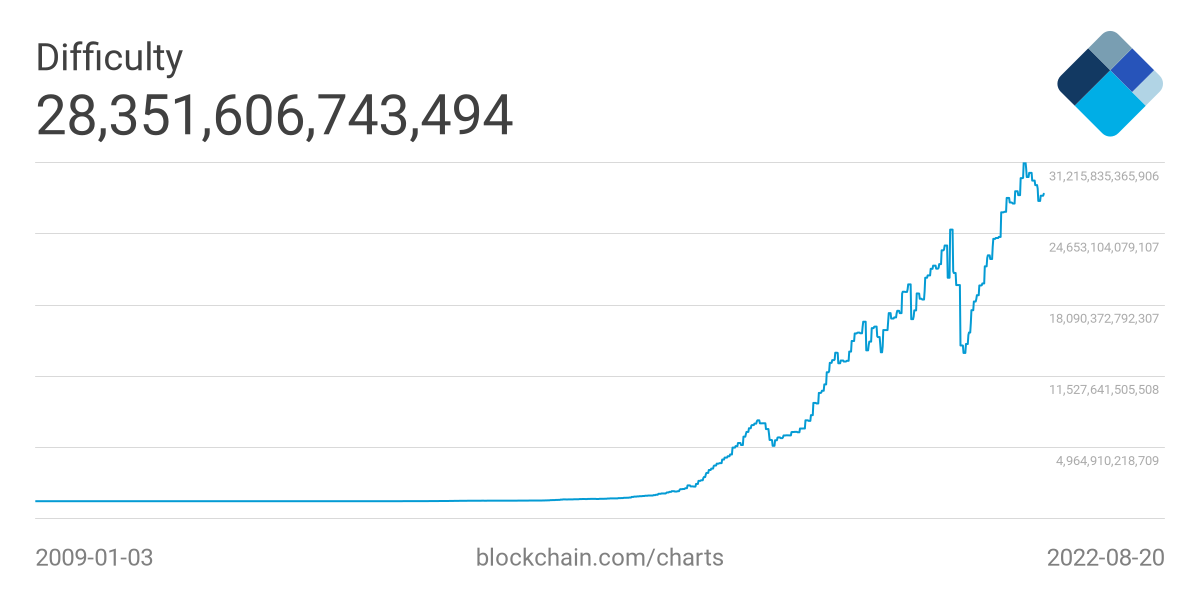
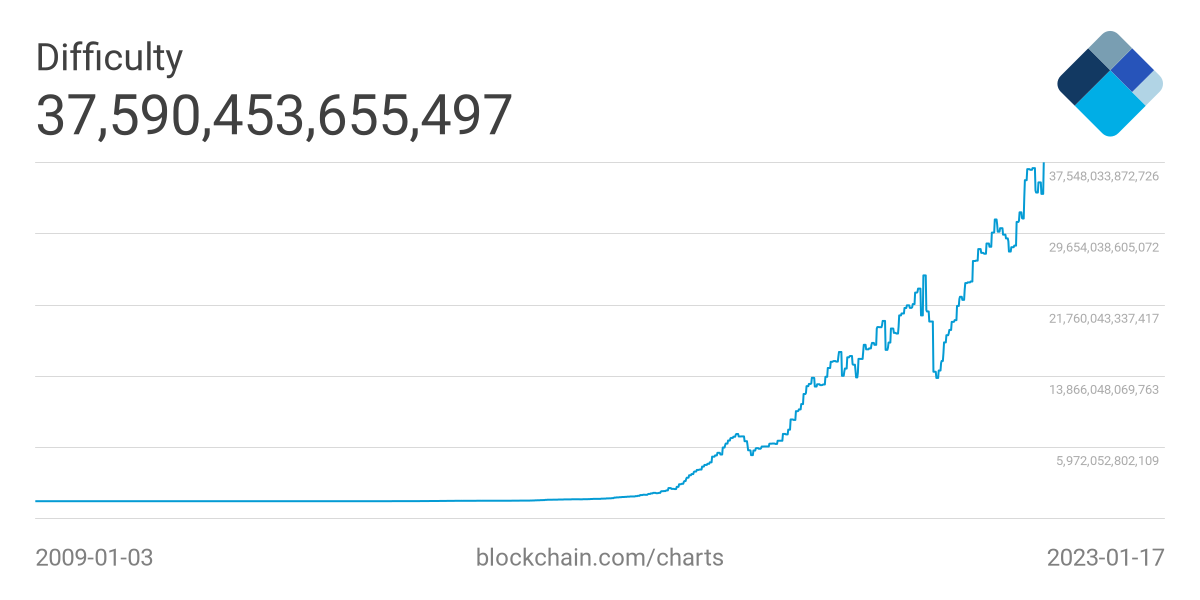
Updated the overview.html slide set

diff --git a/slides/overview.html b/slides/overview.html
@@ -175,8 +175,8 @@ According to Jan Lansky ([source](http://si-journal.org/index.php/JSI/article/vi
 
 
 ## Cryptocurrencies
-- There are 9,973 existing cryptocurrencies (that have value) <!-- change each semester -->
-  - As per [investing.com](https://www.investing.com/crypto/currencies) (as of August 23, 2022)
+- There are 8,806 existing cryptocurrencies (that have value) <!-- change each semester -->
+  - As per [investing.com](https://www.investing.com/crypto/currencies) (as of Jan 17, 2023)
 - One estimate is that 100 new ones are created *each day*
   - Most don't make investing.com's list
 - Some are [Ponzi schemes](https://en.wikipedia.org/wiki/Ponzi_scheme), some are [pyramid schemes](https://en.wikipedia.org/wiki/Ponzi_scheme), and some are worthwhile
@@ -205,7 +205,7 @@ According to Jan Lansky ([source](http://si-journal.org/index.php/JSI/article/vi
 <!-- .slide: class="right-float-img-nb-300" -->
 ## A note about numbers...
 [![](../slides/images/overview/bitcoin-coin.webp)](https://commons.wikimedia.org/wiki/File:One_bitcoin_sitting_atop_bundles_of_US_$100_notes.png)
-- The data in this slide set was all updated for the current semester (on August 23, 2022) <!-- change each semester -->
+- The data in this slide set was all updated for the current semester (on Jan 17, 2023) <!-- change each semester -->
 - Bitcoin is highly volatile (the value changes so fast) that it is likely to be quite different in a day or two
   - Indeed, the value of a Bitcoin changed *during* the updating of the numbers!
     - So you will see (slightly) different values for the price, for example
@@ -291,8 +291,8 @@ From [blockchain.com](https://blockchain.com); BTC peaked at $68,789 in November
 - The first block was the "genesis block"
 - Each successive block includes the SHA-256 hash of the previous block
   - Thus, you can't make a change to a previous block without changing all successive blocks
-- The current blockchain (as of August 23, 2022) is  750,757 blocks (aka 'height'; [source](https://bitinfocharts.com/))
-  - About 423 Gb in size ([source](https://www.blockchain.com/charts/blocks-size))
+- The current blockchain (as of August 23, 2022) is  772,463 blocks (aka 'height'; [source](https://bitinfocharts.com/))
+  - About 438 Gb in size ([source](https://www.blockchain.com/charts/blocks-size))
 <!-- change each semester -->
 
 
@@ -363,18 +363,18 @@ From [blockchain.com](https://blockchain.com); BTC peaked at $68,789 in November
 
 ## Difficulty
 - First target ($ft$): 00000000ffff00000000000000 00000000000000000000000000000000000000
-- The current target ($ct$) is 00000000000000000009fd7e00000000 00000000000000000000000000000000
-  - As of August 23, 2022 and can be found [here](http://learnmeabitcoin.com/glossary/target)
+- The current target ($ct$) is 00000000000000000008417e00000000 00000000000000000000000000000000
+  - As of Jan 17, 2023 and can be found [here](http://learnmeabitcoin.com/glossary/target)
   <!-- change each semester -->
-  - The new target is harder than the old: specifically $ft/ct$ = 28,174,668,481,289 times harder (that's 28.17 *trillion*)
+  - The new target is harder than the old: specifically $ft/ct$ = 34,093,570,325,204 times harder (that's 34.1 *trillion*)
 - This number is the bitcoin *difficulty*, and the latest value can be found [here](https://www.coinwarz.com/mining/bitcoin/difficulty-chart)
 
 
 
 ## Current hash difficulty
 - For the first target, a random nonce had a 1 in 4.3 billion chance of success
-- The current target is 28.17 trillion times harder
-  - A random nonce now has a 1 in $1.2 \times 10^{23}$ chance of success
+- The current target is 34.1 trillion times harder
+  - A random nonce now has a 1 in $1.46 \times 10^{23}$ chance of success
     <!-- change each semester --><!-- that value is n = 1/(d*s^32) -->
 
 
@@ -385,8 +385,8 @@ From [blockchain.com](https://blockchain.com); BTC peaked at $68,789 in November
 - A typical CPU can do maybe 10 Mhash/sec (million hashes per second)
   - A very fast CPU today could do about 25 Mhash/sec
   - A [$1,500 video card](https://www.amazon.com/gp/product/B07GHXQTGZ/) today could do about 800 Mhash/sec (estimate based on [this](https://en.bitcoin.it/wiki/Non-specialized_hardware_comparison#Nvidia) and [this](https://gpu.userbenchmark.com/Compare/Nvidia-RTX-2080-vs-Nvidia-GeForce-GTX-590-SLI-Disabled/4026vsm8041))
-- Consider a 1 in $1.2 \times 10^{23}$ chance of success
-- To generate $1.2 \times 10^{23}$ hashes at 800 million (8 Mhash) per second on a fast graphics card, this will take 4.8 *million years*
+- Consider a 1 in $1.46 \times 10^{23}$ chance of success
+- To generate $1.2 \times 10^{23}$ hashes at 800 million (8 Mhash) per second on a fast graphics card, this will take 6.8 *million years*
   <!-- change each semester -->
 
 
@@ -448,11 +448,11 @@ From [blockchain.com](https://blockchain.com); BTC peaked at $68,789 in November
 
 
 ## Reward per block
-- The current reward (as of August 23, 2022) is 6.25 BTC
+- The current reward (as of Jan 17, 2023) is 6.25 BTC
   <!-- change each semester -->
   - Plus transaction fees of around 0.1 BTC or so
   - The estimated date when it drops to 3.125 BTC is May 2024 ([source](https://www.bitcoinblockhalf.com/))
-- At a price of about $22k per block ([source](https://www.coindesk.com/price/bitcoin)), that's currently about $138k for a properly signed block!
+- At a price of about $21k per block ([source](https://www.coindesk.com/price/bitcoin)), 6.35 BTC is  about $133k for a properly signed block   <!-- change each semester -->
   - But if it costs over a billion dollars in electricity, perhaps it's not all that worth it
   - Unless you use somebody else's electricity...
 
@@ -487,11 +487,10 @@ From [blockchain.com](https://www.blockchain.com/charts/hash-rate), and for the 
 ![](https://m.media-amazon.com/images/I/61WsmRwaOaL._AC_SL1000_.jpg)
 - A whole industry has sprung up: you can find the hardware online (such as [here](https://www.bitcoinmining.com/bitcoin-mining-hardware/))
 - These devices are much faster and use much less electricity
-- Consider the [DragonX AntMiner S9](https://www.amazon.com//dp/B07CGFLJNQ/), which costs $300
-  <!-- change each semester -->
-  - It used to cost 3 times that!
+- Consider the [DragonX AntMiner S9](https://www.amazon.com//dp/B07CGFLJNQ/), which used to cost `$`300 (and over `$`1k before that)
+  - Amazon doesn't sell it anymore
   - It can compute 14 Thash/sec (tera), or $14*10^{12}$ hash/sec
-  - I don't believe their numbers that they post at that link, though
+  - I don't believe their numbers that they posted at that link, though
 
 
 
@@ -507,23 +506,23 @@ From [blockchain.com](https://www.blockchain.com/charts/hash-rate), and for the 
 ## [DragonX AntMinder S9](https://www.amazon.com/dp/B07WV6TPN7) analysis
 <!-- change each semester -->
 - We know that:
-  - The current hash rate is 205.8 EH/s
-  - Blocks take about 10 minutes to process (actually about 9m 21s right now ([source](https://bitinfocharts.com/)))
+  - The current hash rate is 267 EH/s
+  - Blocks take about 10 minutes to process (actually about 9m 25s right now ([source](https://bitinfocharts.com/)))
   - The [DragonX AntMinder S9](https://www.amazon.com/dp/B07WV6TPN7) claims to hash 14 TH/s
-- 205.8 exa / 14 tera = $205.8 \cdot 10^{18} / 14 \cdot 10^{12} = 14.7 \cdot 10^{6}$ or 14.7 million
-- Thus, you would expect to get one 14.7-millionth of a block's reward in a pooled setup
-- At $138k per block, that's about 1 *cent* per block
+- 267 exa / 14 tera = $267 \cdot 10^{18} / 14 \cdot 10^{12} = 19 \cdot 10^{6}$ or 19 million
+- Thus, you would expect to get one 19-millionth of a block's reward in a pooled setup
+- At $133k per block, that's about 1 *cent* per block
 - (And we aren't counting electricity here)
 
 
 
 ## [DragonX AntMinder S9](https://www.amazon.com/dp/B07WV6TPN7) analysis
 <!-- change each semester -->
-- At $138k per block, that's about 1 *cent* per block
-  - Which is $1.35 per day
+- At $133k per block, that's about 1 *cent* per block
+  - Which is $1.05 per day
     - This assumes 10 minute blocks; it's a bit more with 9m21s blocks
-  - You will make back your initial investment of $300 (plus tax) 222 days
-    - That's 7.4 months
+  - You will make back your initial investment of $300 (plus tax) 286 days
+    - That's 9.4 months
 - This assumes that the numbers don't change!
   - And that you aren't paying for electricity
   - And we know the reward per block will go down in May of 2024...
@@ -533,13 +532,13 @@ From [blockchain.com](https://www.blockchain.com/charts/hash-rate), and for the 
 
 ## [DragonX AntMinder S9](https://www.amazon.com/dp/B07WV6TPN7) analysis
 <!-- change each semester -->
-- You will make $1.35 in BTC per day
+- You will make $1.05 in BTC per day
 - But... electricity is not free
 - Stated power usage: 1,373 W or 1.373 kW
   - Over 24 hours that's $24 * 1.373 = 32.952$ kWh
   - At Charlottesville's rate of 11.04&cent; per kWh, that's $3.64 per day
-- So your total profit is: `$`3.64 - `$`1.35 or
-  - *Negative* `$`2.29 cents per day!
+- So your total profit is: `$`3.64 - `$`1.05 or
+  - *Negative* `$`2.59 cents per day!
 
 
 

diff --git a/slides/images/timely/readme.html b/slides/images/timely/readme.html
@@ -52,10 +52,10 @@
 </ul>
 <p>From the <a href="../../overview.html#/">overview slide set</a>. These should be exported as svg if possible; if not, then 1200x600 rasterized and converted to webp (running <code>make</code> will covert .png files to .webp).</p>
 <ul>
-<li>Bitcoin price, all-time / raw values (<code>btc-price.webp</code>), from <a href="https://www.blockchain.com/charts/market-price">blockchain.com</a>: from <a href="btc-price-2022-01-17.png">2022-01-17</a>, <a href="btc-price.webp">2022-08-23</a></li>
-<li>Bitcoin difficulty, all-time / raw values (<code>btc-difficulty-all-time.webp</code>), from <a href="https://www.blockchain.com/en/charts/difficulty">blockchain.com</a>: from <a href="btc-difficulty-all-time-2022-01-17.png">2022-01-17</a>, <a href="btc-difficulty-all-time.webp">2022-08-23</a></li>
-<li>Bitcoin difficulty, last 3 years / raw values (<code>btc-difficulty-last-3-years.webp</code>), from <a href="https://www.blockchain.com/en/charts/difficulty">blockchain.com</a>: from <a href="btc-difficulty-last-3-years-2022-01-17.png">2022-01-17</a>, <a href="btc-difficulty-last-3-years.webp">2022-08-23</a></li>
-<li>Bitcoin hashes per second, all-time / 7-day average (<code>btc-hashes-per-sec.webp</code>), from <a href="https://www.blockchain.com/charts/hash-rate">blockchain.com</a>: from <a href="btc-hashes-per-sec-2022-01-17.png">2022-01-17</a>, <a href="btc-hashes-per-sec.webp">2022-08-23</a></li>
+<li>Bitcoin price, all-time / raw values (<code>btc-price.webp</code>), from <a href="https://www.blockchain.com/charts/market-price">blockchain.com</a>: from <a href="btc-price-2022-01-17.png">2022-01-17</a>, <a href="btc-price-2022-08-23.webp">2022-08-23</a>, <a href="btc-price.webp">2023-01-23</a></li>
+<li>Bitcoin difficulty, all-time / raw values (<code>btc-difficulty-all-time.webp</code>), from <a href="https://www.blockchain.com/en/charts/difficulty">blockchain.com</a>: from <a href="btc-difficulty-all-time-2022-01-17.png">2022-01-17</a>, <a href="btc-difficulty-all-time-2022-08-23.webp">2022-08-23</a>, <a href="btc-difficulty-all-time.webp">2023-01-23</a></li>
+<li>Bitcoin difficulty, last 3 years / raw values (<code>btc-difficulty-last-3-years.webp</code>), from <a href="https://www.blockchain.com/en/charts/difficulty">blockchain.com</a>: from <a href="btc-difficulty-last-3-years-2022-01-17.png">2022-01-17</a>, <a href="btc-difficulty-last-3-years-2022-08-23.webp">2022-08-23</a>, <a href="btc-difficulty-last-3-years.webp">2023-01-23</a></li>
+<li>Bitcoin hashes per second, all-time / 7-day average (<code>btc-hashes-per-sec.webp</code>), from <a href="https://www.blockchain.com/charts/hash-rate">blockchain.com</a>: from <a href="btc-hashes-per-sec-2022-01-17.png">2022-01-17</a>, <a href="btc-hashes-per-sec-2022-08-23.webp">2022-08-23</a>, <a href="btc-hashes-per-sec.webp">2023-01-23</a></li>
 </ul>
 <p>From the <a href="../../bitcoin.html#/">Bitcoin slide set</a></p>
 <ul>

diff --git a/slides/images/timely/readme.md b/slides/images/timely/readme.md
@@ -11,10 +11,10 @@ From the [course introduction slide set](../../../uva/introduction.html#/):
 
 From the [overview slide set](../../overview.html#/).  These should be exported as svg if possible; if not, then 1200x600 rasterized and converted to webp (running `make` will covert .png files to .webp).
 
-- Bitcoin price, all-time / raw values (`btc-price.webp`), from [blockchain.com](https://www.blockchain.com/charts/market-price): from [2022-01-17](btc-price-2022-01-17.png), [2022-08-23](btc-price.webp)
-- Bitcoin difficulty, all-time / raw values  (`btc-difficulty-all-time.webp`), from [blockchain.com](https://www.blockchain.com/en/charts/difficulty): from [2022-01-17](btc-difficulty-all-time-2022-01-17.png), [2022-08-23](btc-difficulty-all-time.webp)
-- Bitcoin difficulty, last 3 years / raw values (`btc-difficulty-last-3-years.webp`), from [blockchain.com](https://www.blockchain.com/en/charts/difficulty): from [2022-01-17](btc-difficulty-last-3-years-2022-01-17.png), [2022-08-23](btc-difficulty-last-3-years.webp)
-- Bitcoin hashes per second, all-time / 7-day average (`btc-hashes-per-sec.webp`), from [blockchain.com](https://www.blockchain.com/charts/hash-rate): from [2022-01-17](btc-hashes-per-sec-2022-01-17.png), [2022-08-23](btc-hashes-per-sec.webp)
+- Bitcoin price, all-time / raw values (`btc-price.webp`), from [blockchain.com](https://www.blockchain.com/charts/market-price): from [2022-01-17](btc-price-2022-01-17.png), [2022-08-23](btc-price-2022-08-23.webp), [2023-01-23](btc-price.webp)
+- Bitcoin difficulty, all-time / raw values  (`btc-difficulty-all-time.webp`), from [blockchain.com](https://www.blockchain.com/en/charts/difficulty): from [2022-01-17](btc-difficulty-all-time-2022-01-17.png), [2022-08-23](btc-difficulty-all-time-2022-08-23.webp), [2023-01-23](btc-difficulty-all-time.webp)
+- Bitcoin difficulty, last 3 years / raw values (`btc-difficulty-last-3-years.webp`), from [blockchain.com](https://www.blockchain.com/en/charts/difficulty): from [2022-01-17](btc-difficulty-last-3-years-2022-01-17.png), [2022-08-23](btc-difficulty-last-3-years-2022-08-23.webp), [2023-01-23](btc-difficulty-last-3-years.webp)
+- Bitcoin hashes per second, all-time / 7-day average (`btc-hashes-per-sec.webp`), from [blockchain.com](https://www.blockchain.com/charts/hash-rate): from [2022-01-17](btc-hashes-per-sec-2022-01-17.png), [2022-08-23](btc-hashes-per-sec-2022-08-23.webp), [2023-01-23](btc-hashes-per-sec.webp)
 
 From the [Bitcoin slide set](../../bitcoin.html#/)
 
